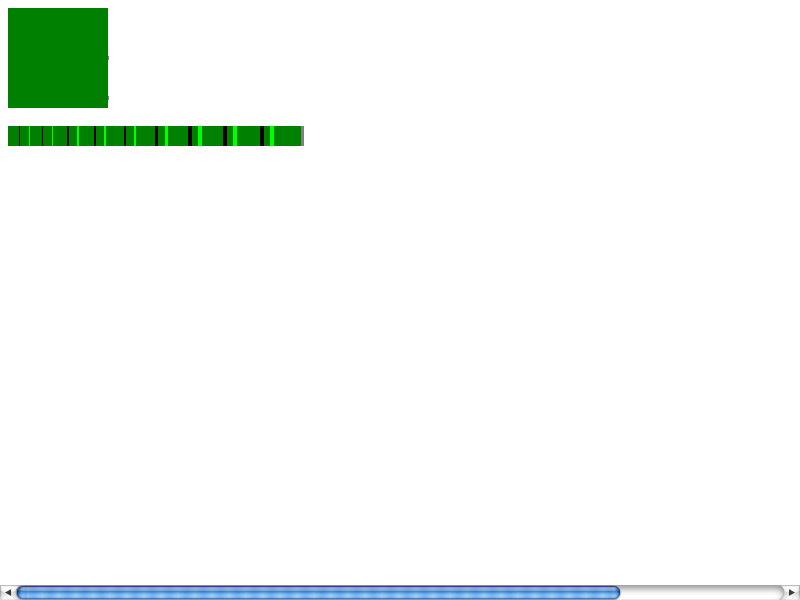
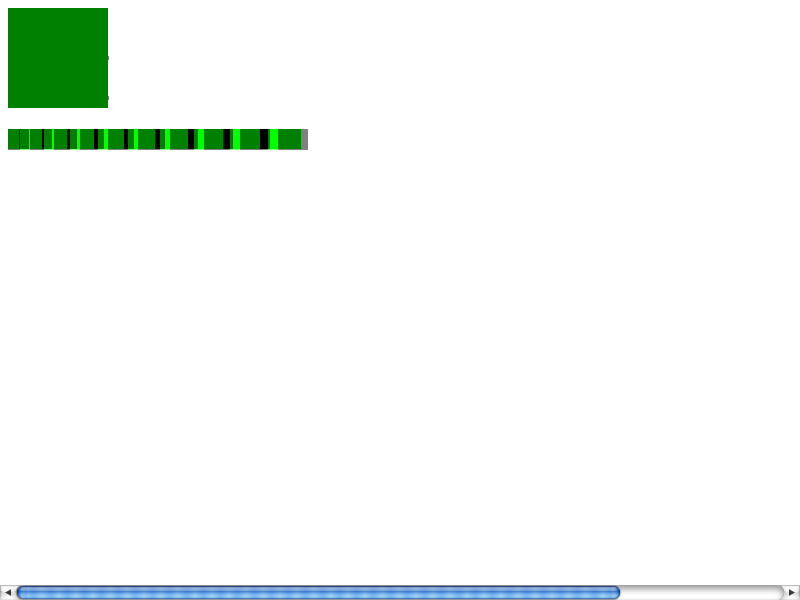
2011-03-24  Rik Cabanier  <cabanier@adobe.com>
Reviewed by David Hyatt.

        REGRESSION (r81625): fast/css/percentage-non-integer.html fails on Windows
        https://bugs.webkit.org/show_bug.cgi?id=56829

        * platform/win/fast/css/percentage-non-integer-expected.checksum:
        * platform/win/fast/css/percentage-non-integer-expected.png:
        * platform/win/fast/css/percentage-non-integer-expected.txt:
2011-03-24  Rik Cabanier  <cabanier@adobe.com>

        Reviewed by David Hyatt.

        REGRESSION (r81625): fast/css/percentage-non-integer.html fails on Windows
        https://bugs.webkit.org/show_bug.cgi?id=56829

        Test: fast/css/percentage-non-integer.html

        * platform/Length.h:
        (WebCore::Length::calcValue):
        (WebCore::Length::calcMinValue):
        (WebCore::Length::calcFloatValue):

git-svn-id: https://svn.webkit.org/repository/webkit/trunk@81925 268f45cc-cd09-0410-ab3c-d52691b4dbfc

Changed region(s): [[0.0, 0.21, 0.4062, 0.27]]

diff --git a/Source/WebCore/platform/Length.h b/Source/WebCore/platform/Length.h
@@ -120,11 +120,8 @@ public:
     {
         switch (type()) {
             case Fixed:
-                return value();
             case Percent:
-                if (roundPercentages)
-                    return static_cast<int>(round(maxValue * percent() / 100.0));
-                return static_cast<int>(maxValue * percent() / 100.0);
+                return calcMinValue(maxValue, roundPercentages);
             case Auto:
                 return maxValue;
             default:
@@ -139,8 +136,9 @@ public:
                 return value();
             case Percent:
                 if (roundPercentages)
-                    return static_cast<int>(round(maxValue * percent() / 100.0));
-                return static_cast<int>(maxValue * percent() / 100.0);
+                    return static_cast<int>(round(maxValue * percent() / 100.0f));
+                // Don't remove the extra cast to float. It is needed for rounding on 32-bit Intel machines that use the FPU stack.
+                return static_cast<int>(static_cast<float>(maxValue * percent() / 100.0f));
             case Auto:
             default:
                 return 0;
@@ -153,7 +151,7 @@ public:
             case Fixed:
                 return getFloatValue();
             case Percent:
-                return static_cast<float>(maxValue * percent() / 100.0);
+                return static_cast<float>(maxValue * percent() / 100.0f);
             case Auto:
                 return static_cast<float>(maxValue);
             default:
